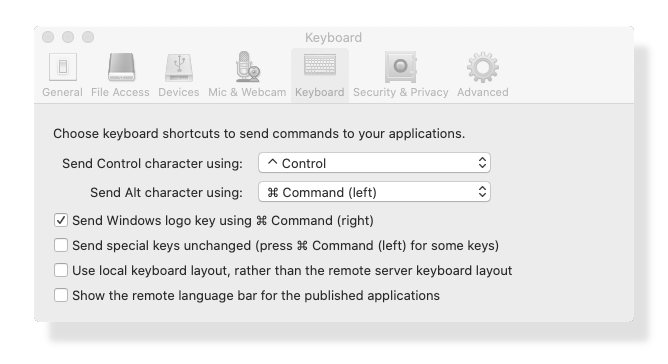
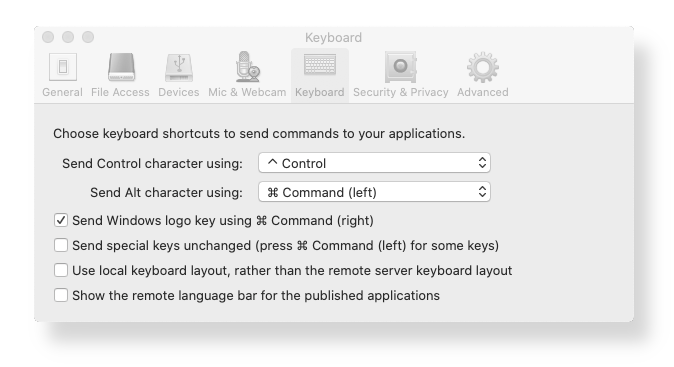
10 15 25

diff --git a/README.md b/README.md
@@ -112,12 +112,6 @@ Citrix Viewer menu -> Preferences -> Keyboard
 - Send Windows logo using right % Command - checked
 
 ![citrix](./images/citrix.png)
-![citrix](./images/citrixd0.png)
-![citrix](./images/citrixd0b15.png)
-![citrix](./images/citrixd0b25.png)
-![citrix](./images/citrix60.png)
-![citrix](./images/citrix50_80.png)
-![citrix](./images/citrix_glow.png)
 
 As we can see, we can chose what sends Control, what sends Alt, but not what sends Win key. Default for Win key is of course Command which we can't use because we want it to be Alt. So we chose only other option available - send it as right Command.
 
